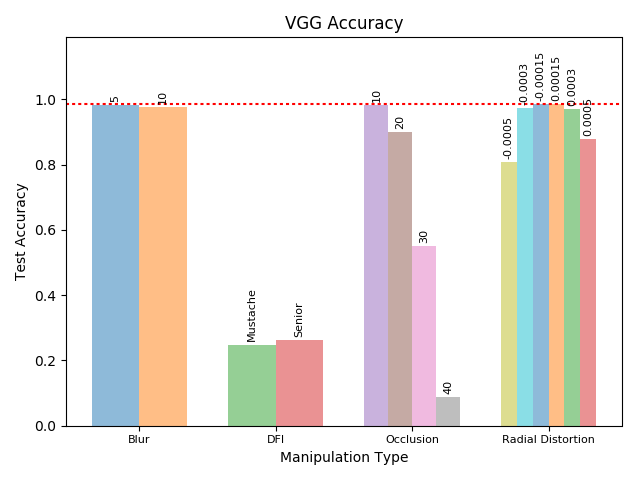
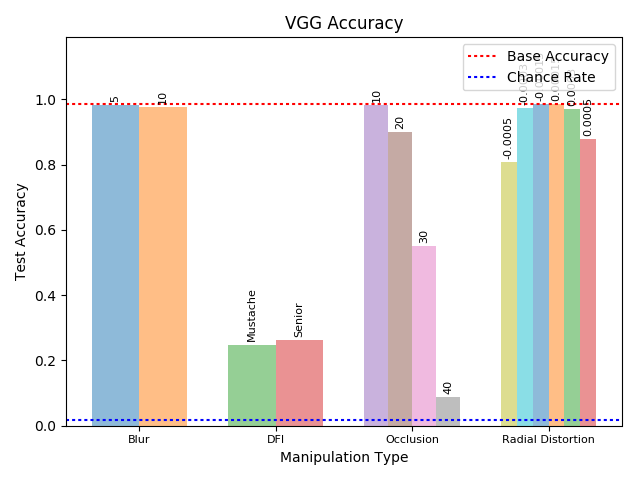
Add chance rate to accuracy plot

Changed region(s): [[0.7812, 0.0938, 0.9688, 0.1875]]

diff --git a/code/analysis.py b/code/analysis.py
@@ -116,7 +116,9 @@ def create_algorithm_accuracies(num_train):
                 ax.text(x, height + 0.01, label, rotation='vertical', fontsize=8, verticalalignment='bottom', horizontalalignment='center')
 
         base_accuracy = algorithm_results[algorithm_results['Manipulation Type'] == 'none']['Test Accuracy'].iloc[0]
-        ax.axhline(y=base_accuracy, color='r', linestyle=':')
+        base_accuracy_line = ax.axhline(y=base_accuracy, color='r', linestyle=':')
+        chance_rate_line = ax.axhline(y=CHANCE_RATE, color='b', linestyle=':')
+        ax.legend([base_accuracy_line, chance_rate_line], ['Base Accuracy', 'Chance Rate'])
 
         ax.set_ylabel("Test Accuracy")
         ax.set_title("%s Accuracy" % algorithm)
